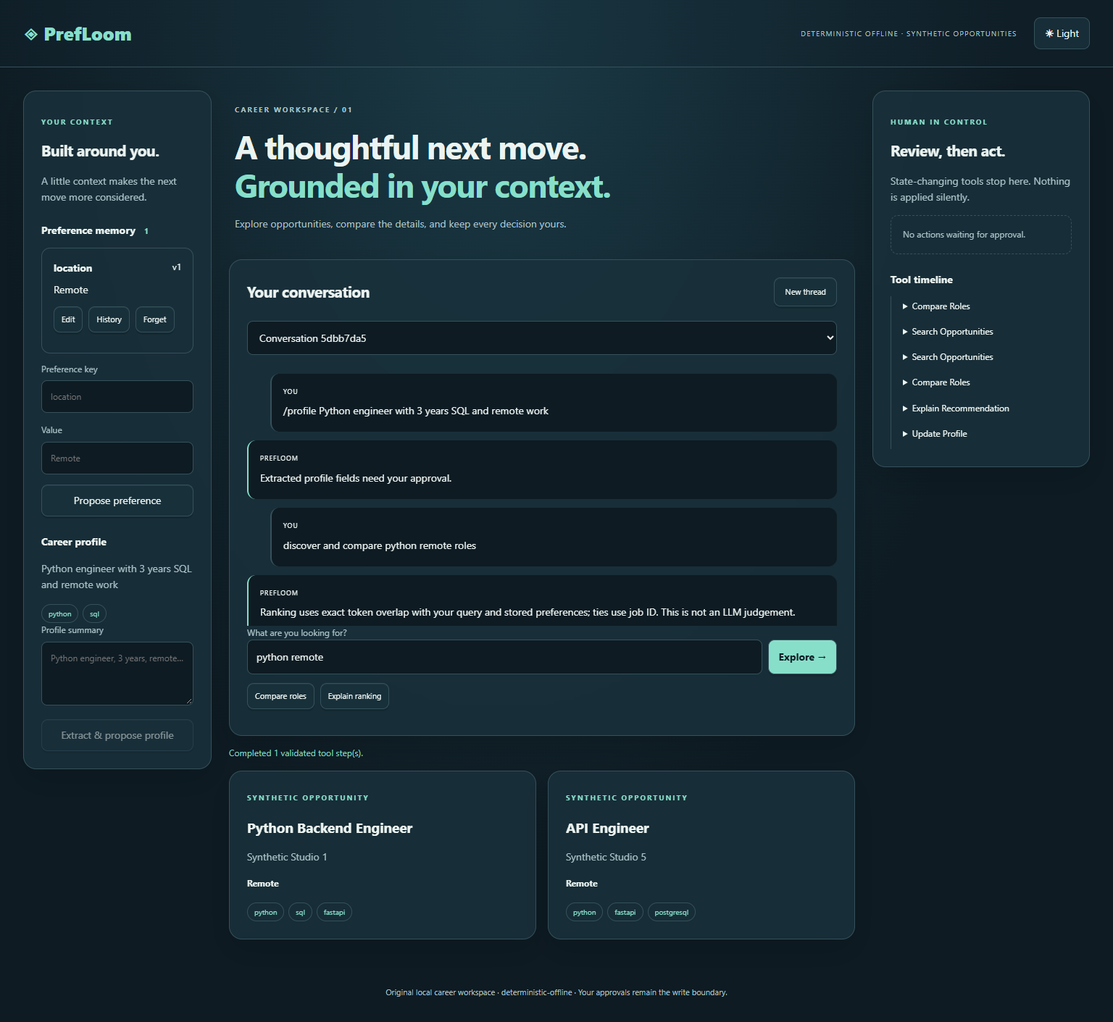
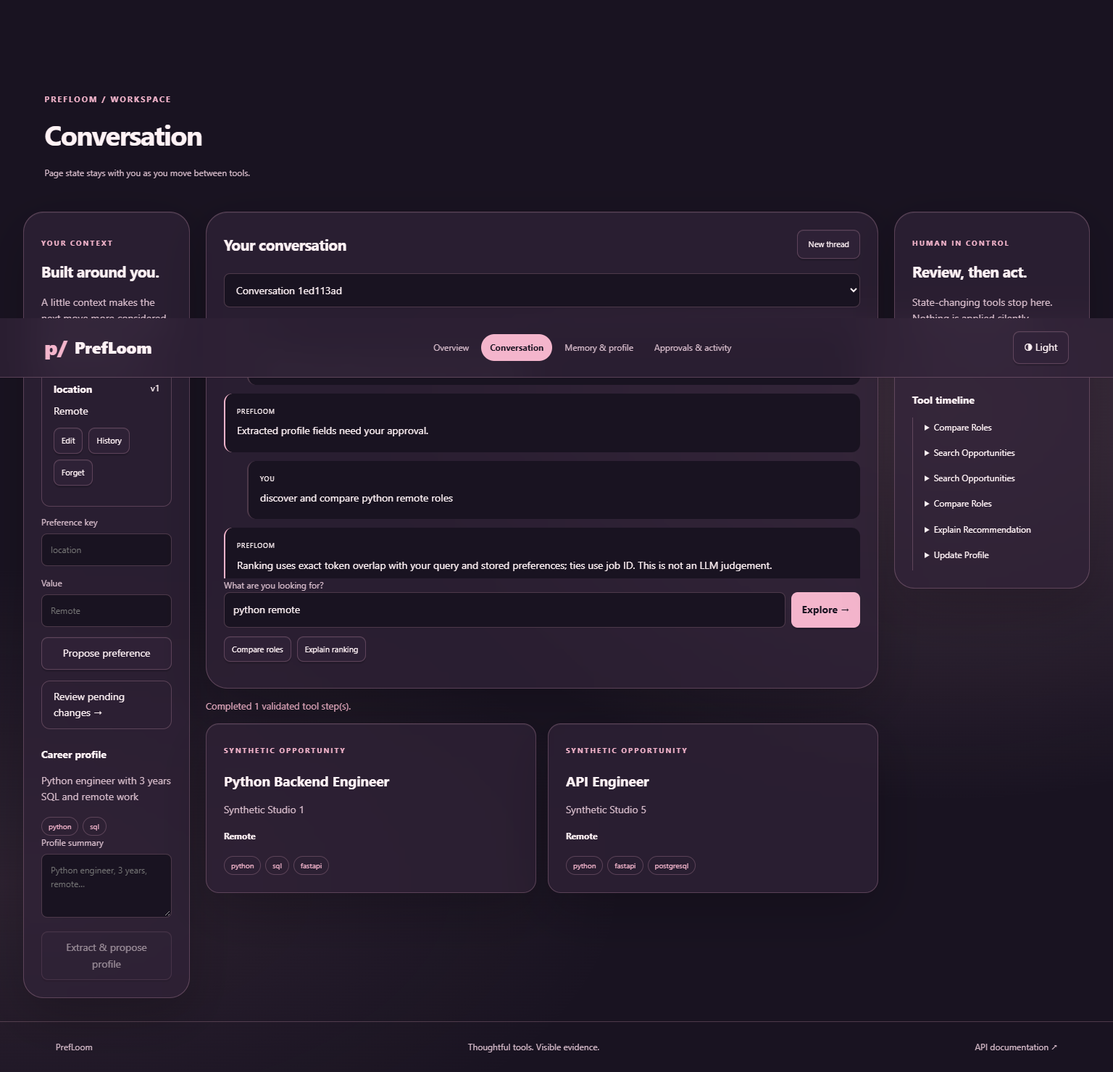
Phase 1: give PrefLoom a rose glass landing and dedicated career pages

diff --git a/frontend/src/App.tsx b/frontend/src/App.tsx
@@ -1,39 +1,20 @@
-import {useEffect,useRef,useState} from 'react';
-import {base,parseFrame,request,validPreference} from './api';
-type Fact={id:string;key:string;value:string;version:number};
-type Approval={id:string;action:string;payload:Record<string,unknown>};
-type Job={id:string;title:string;company:string;location:string;skills:string[]};
-type Chat={role:string;text:string};
-type Trace={id:string;tool:string;arguments:Record<string,unknown>;output:{trace:string[]};created_at:string};
-type Result={thread_id:string;message:string;jobs:Job[];mode:string;steps?:{call:{name:string};output:{message:string}}[]};
-type Profile={summary?:string;skills?:string[];experience_years?:number};
+import {useEffect,useState} from 'react';
+import Workspace from './Workspace';
+
+const routes = [['workspace','Conversation'],['memory','Memory & profile'],['activity','Approvals & activity']] as const;
+function route(){return window.location.hash.replace('#/','') || 'home'}
 export default function App(){
- const [token,setToken]=useState(localStorage.getItem('prefloom-token')??'');const auth=useRef(token);
- const [thread,setThread]=useState(localStorage.getItem('prefloom-thread')??'');
- const [threads,setThreads]=useState<{id:string}[]>([]);const [facts,setFacts]=useState<Fact[]>([]);const [approvals,setApprovals]=useState<Approval[]>([]);const [traces,setTraces]=useState<Trace[]>([]);const [profile,setProfile]=useState<Profile>({});
- const [messages,setMessages]=useState<Chat[]>([]);const [jobs,setJobs]=useState<Job[]>([]);const [query,setQuery]=useState('');const [summary,setSummary]=useState('');const [key,setKey]=useState('');const [value,setValue]=useState('');
- const [busy,setBusy]=useState(false);const [error,setError]=useState('');const [status,setStatus]=useState('Connecting…');const [mode,setMode]=useState('deterministic-offline');const [light,setLight]=useState(localStorage.getItem('prefloom-theme')==='light');const [versions,setVersions]=useState<{version:number;value:string}[]>([]);
- const last=useRef<()=>Promise<void>>(async()=>{});const started=useRef(false);
- async function act(fn:()=>Promise<void>){last.current=fn;setBusy(true);setError('');try{await fn()}catch(e){setError(e instanceof Error?e.message:'Request failed')}finally{setBusy(false)}}
- async function refresh(){const t=auth.current;const [f,a,r,p,ts]=await Promise.all([request<Fact[]>('/memory',t),request<Approval[]>('/approvals',t),request<Trace[]>('/traces',t),request<Profile>('/profile',t),request<{id:string}[]>('/threads',t)]);setFacts(f);setApprovals(a);setTraces(r);setProfile(p);setThreads(ts)}
- async function initialize(){const health=await request<{mode:string}>('/health','');setMode(health.mode);if(!auth.current){const s=await request<{token:string}>('/sessions','',{});auth.current=s.token;setToken(s.token);localStorage.setItem('prefloom-token',s.token)}await refresh();if(thread)setMessages(await request<Chat[]>('/threads/'+thread+'/messages',auth.current));setStatus('Your workspace is ready.')}
- useEffect(()=>{if(!started.current){started.current=true;void act(initialize)}},[]);
- useEffect(()=>{document.documentElement.dataset.theme=light?'light':'dark';localStorage.setItem('prefloom-theme',light?'light':'dark')},[light]);
- async function send(text:string){setStatus('Planning your next step…');const response=await fetch(base+'/chat/stream',{method:'POST',headers:{'Content-Type':'application/json',Authorization:'Bearer '+auth.current},body:JSON.stringify({text,thread_id:thread||null})});if(!response.ok){const e=await response.json();throw Error(e.detail??'Chat failed')}
- const reader=response.body!.getReader(),decoder=new TextDecoder();let buffer='',result:Result|undefined;
- while(true){const part=await reader.read();if(part.done)break;buffer+=decoder.decode(part.value,{stream:true});let end;while((end=buffer.indexOf('\n\n'))>=0){const frame=parseFrame(buffer.slice(0,end));buffer=buffer.slice(end+2);if(frame?.event==='trace')setStatus((frame.data as {step:string}).step);if(frame?.event==='result')result=frame.data as Result}}
- if(!result)throw Error('Stream ended before the result. Please retry.');setThread(result.thread_id);localStorage.setItem('prefloom-thread',result.thread_id);setMessages(old=>[...old,{role:'user',text},{role:'assistant',text:result.message}]);setJobs(result.jobs);setMode(result.mode);setStatus('Completed '+(result.steps?.length??1)+' validated tool step(s).');await refresh();}
- async function decide(id:string,approved:boolean){await request('/approvals/'+id,auth.current,{approved});await refresh();setStatus(approved?'Approved change saved.':'Proposal rejected.')}
- return <div className="app"><header className="topbar"><a className="brand" href="/">◈ <span>PrefLoom</span></a><span className="mode">{mode==='provider-backed'?'PROVIDER PLANNING':'DETERMINISTIC OFFLINE'} · SYNTHETIC OPPORTUNITIES</span><button className="quiet" onClick={()=>setLight(!light)} aria-label="Change theme">{light?'☾ Dark':'☀ Light'}</button></header>
- <div className="workspace"><aside className="panel context"><p className="eyebrow">YOUR CONTEXT</p><h2>Built around you.</h2><p className="muted">A little context makes the next move more considered.</p><h3>Preference memory <span className="count">{facts.length}</span></h3><div id="memory">{!facts.length&&<p className="empty">No saved preferences yet. Add one below; it stays a proposal until you approve.</p>}{facts.map(f=><article className="memory" key={f.id}><div><strong>{f.key}</strong><small>v{f.version}</small></div><p>{f.value}</p><div className="actions"><button onClick={()=>{setKey(f.key);setValue(f.value)}}>Edit</button><button onClick={()=>void act(async()=>setVersions(await request('/memory/'+f.id+'/versions',auth.current)))}>History</button><button disabled={busy} onClick={()=>void act(async()=>{await request('/memory/'+f.id,auth.current,undefined,'DELETE');await refresh()})}>Forget</button></div></article>)}</div>
- <form onSubmit={e=>{e.preventDefault();void act(async()=>{if(!validPreference(key,value))throw Error('Use a simple preference name and a nonempty value.');await request('/memory',auth.current,{key,value});await refresh();setStatus('Preference proposal is ready for your review.');setKey('');setValue('')})}}><label>Preference key<input name="key" value={key} onChange={e=>setKey(e.target.value)} required maxLength={64} placeholder="location"/></label><label>Value<input name="value" value={value} onChange={e=>setValue(e.target.value)} required maxLength={500} placeholder="Remote"/></label><button className="wide" disabled={busy}>Propose preference</button></form>
- <h3>Career profile</h3><p className="muted">{profile.summary??'Your profile is empty.'}</p>{profile.skills&&<div className="chips">{profile.skills.map(s=><span key={s}>{s}</span>)}</div>}<label>Profile summary<textarea value={summary} onChange={e=>setSummary(e.target.value)} maxLength={500} placeholder="Python engineer, 3 years, remote…"/></label><button className="wide" disabled={busy||!summary.trim()} onClick={()=>void act(()=>send('/profile '+summary))}>Extract & propose profile</button>
- </aside><main><div className="hero"><p className="eyebrow">CAREER WORKSPACE / 01</p><h1>A thoughtful next move.<br/><em>Grounded in your context.</em></h1><p>Explore opportunities, compare the details, and keep every decision yours.</p></div><section className="panel chat"><div className="section-head"><h2>Your conversation</h2><button onClick={()=>{setThread('');localStorage.removeItem('prefloom-thread');setMessages([]);setJobs([])}} disabled={busy}>New thread</button></div><label className="sr-only" htmlFor="thread">Conversation history</label><select id="thread" value={thread} onChange={e=>void act(async()=>{const id=e.target.value;setThread(id);localStorage.setItem('prefloom-thread',id);setMessages(id?await request('/threads/'+id+'/messages',auth.current):[])})}><option value="">New conversation</option>{threads.map(t=><option key={t.id} value={t.id}>Conversation {t.id.slice(0,8)}</option>)}</select>
- <div className="conversation" aria-live="polite">{!messages.length&&<div className="empty welcome"><span>✦</span><h3>What would a better fit look like?</h3><p>Try “discover and compare remote Python roles” for a multi-step tool plan.</p></div>}{messages.map((m,i)=><article key={i} className={'bubble '+m.role}><small>{m.role==='user'?'YOU':'PREFLOOM'}</small><p>{m.text}</p></article>)}</div>
- <form onSubmit={e=>{e.preventDefault();void act(()=>send(query))}}><label htmlFor="message">What are you looking for?</label><div className="composer"><input id="message" value={query} onChange={e=>setQuery(e.target.value)} required maxLength={2000} placeholder="Discover and compare remote Python roles"/><button className="primary" disabled={busy||!query.trim()}>Explore →</button></div></form><div className="actions"><button disabled={busy} onClick={()=>void act(()=>send('/compare '+query))}>Compare roles</button><button disabled={busy} onClick={()=>void act(()=>send('/explain '+query))}>Explain ranking</button></div></section>
- <div id="status" className="status" role="status">{busy&&<span className="spinner"/>}{status}</div>{error&&<div role="alert" className="error"><strong>We couldn’t finish that request.</strong><p>{error}</p><button onClick={()=>void act(last.current)}>Retry</button>{!token&&<button onClick={()=>void act(initialize)}>Create session</button>}</div>}
- <section id="jobs" className="job-grid">{jobs.map(j=><article className="panel job" key={j.id}><span className="eyebrow">SYNTHETIC OPPORTUNITY</span><h3>{j.title}</h3><p>{j.company}</p><strong>{j.location}</strong><div className="chips">{j.skills.map(s=><span key={s}>{s}</span>)}</div></article>)}</section></main>
- <aside className="panel review"><p className="eyebrow">HUMAN IN CONTROL</p><h2>Review, then act.</h2><p className="muted">State-changing tools stop here. Nothing is applied silently.</p><div id="approvals">{!approvals.length&&<p className="empty">No actions waiting for approval.</p>}{approvals.map(a=><article className="proposal" key={a.id}><span className="pill">PENDING APPROVAL</span><h3>{a.action.replaceAll('_',' ')}</h3><dl>{Object.entries(a.payload).map(([k,v])=><div key={k}><dt>{k}</dt><dd>{typeof v==='string'?v:JSON.stringify(v)}</dd></div>)}</dl><div className="actions"><button className="primary" disabled={busy} onClick={()=>void act(()=>decide(a.id,true))}>Approve</button><button disabled={busy} onClick={()=>void act(()=>decide(a.id,false))}>Reject</button></div></article>)}</div><h3>Tool timeline</h3><div id="traces" className="timeline">{!traces.length&&<p className="empty">Tool evidence appears after your first request.</p>}{traces.slice(0,12).map(t=><details key={t.id}><summary>{t.tool.replaceAll('_',' ')}</summary><time>{new Date(t.created_at).toLocaleTimeString()}</time><ol>{t.output.trace.map((step,i)=><li key={i}>{step}</li>)}</ol><pre>{JSON.stringify(t.arguments,null,2)}</pre></details>)}</div></aside></div>
- {versions.length>0&&<div className="overlay" role="dialog" aria-modal="true" aria-label="Memory history"><section className="panel"><h2>Memory versions</h2>{versions.map(v=><p key={v.version}><strong>Version {v.version}</strong> · {v.value}</p>)}<button autoFocus onClick={()=>setVersions([])}>Close history</button></section></div>}
- <footer>Original local career workspace · {mode} · Your approvals remain the write boundary.</footer></div>
+ const [page,setPage]=useState(route);const [opened,setOpened]=useState(page!=='home');
+ const [light,setLight]=useState(localStorage.getItem('PrefLoom-theme')==='light');
+ useEffect(()=>{const change=()=>{const next=route();setPage(next);if(next!=='home')setOpened(true);window.scrollTo(0,0)};window.addEventListener('hashchange',change);return()=>window.removeEventListener('hashchange',change)},[]);
+ useEffect(()=>{document.documentElement.dataset.theme=light?'light':'dark';localStorage.setItem('PrefLoom-theme',light?'light':'dark')},[light,page,opened]);
+ const valid=page==='home'||routes.some(([id])=>id===page);
+ return <div className="experience" data-page={page}>
+ <a className="skip-link" href="#page-content" onClick={e=>{e.preventDefault();document.getElementById("page-content")?.focus()}}>Skip to content</a>
+ <header className="site-nav"><a className="site-brand" href="#/home"><span>p/</span>PrefLoom</a><nav aria-label="Primary navigation"><a href="#/home" aria-current={page==='home'?'page':undefined}>Overview</a>{routes.map(([id,label])=><a key={id} href={'#/'+id} aria-current={page===id?'page':undefined}>{label}</a>)}</nav><button className="theme-switch" aria-label="Change theme" onClick={()=>setLight(!light)}>{light?'◐ Dark':'◑ Light'}</button></header>
+ <div id="page-content" tabIndex={-1}>
+ {page==='home'&&<main className="landing"><section className="landing-hero"><div className="hero-copy"><p className="landing-kicker">A little more you.</p><h1>Make room for<br/>your next chapter.</h1><p className="landing-description">A career companion that remembers what matters. Explore possibilities, shape your profile, and keep every decision in your hands.</p><div className="landing-actions"><a className="launch-button" href="#/workspace">Enter your workspace <span>↗</span></a><a className="text-link" href="#how-it-works" onClick={e=>{e.preventDefault();document.getElementById('how-it-works')?.scrollIntoView({behavior:'smooth'})}}>How it works ↓</a></div></div><div className="loom-art" aria-label="Illustration of a personal career journey"><div className="orbit one"/><div className="orbit two"/><div className="orbit three"/><div className="art-core">You<span>at the center</span></div><span className="floating-note note-a">Your ambitions</span><span className="floating-note note-b">Your preferences</span><span className="floating-note note-c">Your decision</span></div></section><section className="landing-path" id="how-it-works"><div className="section-intro"><p className="landing-kicker">DESIGNED AROUND YOUR WORKFLOW</p><h2>One place to start.<br/>A path you can follow.</h2></div><div className="journey-grid"><a className="journey-card" href="#/workspace"><span>01</span><h3>Find your direction</h3><p>Turn a question into a guided conversation.</p><b aria-hidden="true">↗</b></a><a className="journey-card" href="#/memory"><span>02</span><h3>Make it personal</h3><p>Build a profile you can inspect and edit.</p><b aria-hidden="true">↗</b></a><a className="journey-card" href="#/activity"><span>03</span><h3>Stay in control</h3><p>Review every proposed change before it is saved.</p><b aria-hidden="true">↗</b></a></div></section><section className="honest-note"><span>Built on evidence</span><p>Explore working tools, inspect the results, and keep the limits visible. Demo data is labeled. No invented activity or production scores.</p><a href="/docs">Explore the API ↗</a></section></main>}
+ {!valid&&<section className="landing"><h1>Page not found</h1><a href="#/home">Return to overview</a></section>}
+ {opened&&<div className="product-surface" hidden={page==='home'||!valid}><div className="page-heading"><p className="landing-kicker">PrefLoom / WORKSPACE</p><h1>{routes.find(([id])=>id===page)?.[1]}</h1><p>Page state stays with you as you move between tools.</p></div><Workspace/></div>}
+ </div><footer className="site-footer"><a href="#/home">PrefLoom</a><span>Thoughtful tools. Visible evidence.</span><a href="/docs">API documentation ↗</a></footer></div>
 }

diff --git a/frontend/src/Workspace.tsx b/frontend/src/Workspace.tsx
@@ -1,0 +1,39 @@
+import {useEffect,useRef,useState} from 'react';
+import {base,parseFrame,request,validPreference} from './api';
+type Fact={id:string;key:string;value:string;version:number};
+type Approval={id:string;action:string;payload:Record<string,unknown>};
+type Job={id:string;title:string;company:string;location:string;skills:string[]};
+type Chat={role:string;text:string};
+type Trace={id:string;tool:string;arguments:Record<string,unknown>;output:{trace:string[]};created_at:string};
+type Result={thread_id:string;message:string;jobs:Job[];mode:string;steps?:{call:{name:string};output:{message:string}}[]};
+type Profile={summary?:string;skills?:string[];experience_years?:number};
+export default function Workspace(){
+ const [token,setToken]=useState(localStorage.getItem('prefloom-token')??'');const auth=useRef(token);
+ const [thread,setThread]=useState(localStorage.getItem('prefloom-thread')??'');
+ const [threads,setThreads]=useState<{id:string}[]>([]);const [facts,setFacts]=useState<Fact[]>([]);const [approvals,setApprovals]=useState<Approval[]>([]);const [traces,setTraces]=useState<Trace[]>([]);const [profile,setProfile]=useState<Profile>({});
+ const [messages,setMessages]=useState<Chat[]>([]);const [jobs,setJobs]=useState<Job[]>([]);const [query,setQuery]=useState('');const [summary,setSummary]=useState('');const [key,setKey]=useState('');const [value,setValue]=useState('');
+ const [busy,setBusy]=useState(false);const [error,setError]=useState('');const [status,setStatus]=useState('Connecting…');const [mode,setMode]=useState('deterministic-offline');const [light,setLight]=useState(localStorage.getItem('prefloom-theme')==='light');const [versions,setVersions]=useState<{version:number;value:string}[]>([]);
+ const last=useRef<()=>Promise<void>>(async()=>{});const started=useRef(false);
+ async function act(fn:()=>Promise<void>){last.current=fn;setBusy(true);setError('');try{await fn()}catch(e){setError(e instanceof Error?e.message:'Request failed')}finally{setBusy(false)}}
+ async function refresh(){const t=auth.current;const [f,a,r,p,ts]=await Promise.all([request<Fact[]>('/memory',t),request<Approval[]>('/approvals',t),request<Trace[]>('/traces',t),request<Profile>('/profile',t),request<{id:string}[]>('/threads',t)]);setFacts(f);setApprovals(a);setTraces(r);setProfile(p);setThreads(ts)}
+ async function initialize(){const health=await request<{mode:string}>('/health','');setMode(health.mode);if(!auth.current){const s=await request<{token:string}>('/sessions','',{});auth.current=s.token;setToken(s.token);localStorage.setItem('prefloom-token',s.token)}await refresh();if(thread)setMessages(await request<Chat[]>('/threads/'+thread+'/messages',auth.current));setStatus('Your workspace is ready.')}
+ useEffect(()=>{if(!started.current){started.current=true;void act(initialize)}},[]);
+ useEffect(()=>{document.documentElement.dataset.theme=light?'light':'dark';localStorage.setItem('prefloom-theme',light?'light':'dark')},[light]);
+ async function send(text:string){setStatus('Planning your next step…');const response=await fetch(base+'/chat/stream',{method:'POST',headers:{'Content-Type':'application/json',Authorization:'Bearer '+auth.current},body:JSON.stringify({text,thread_id:thread||null})});if(!response.ok){const e=await response.json();throw Error(e.detail??'Chat failed')}
+ const reader=response.body!.getReader(),decoder=new TextDecoder();let buffer='',result:Result|undefined;
+ while(true){const part=await reader.read();if(part.done)break;buffer+=decoder.decode(part.value,{stream:true});let end;while((end=buffer.indexOf('\n\n'))>=0){const frame=parseFrame(buffer.slice(0,end));buffer=buffer.slice(end+2);if(frame?.event==='trace')setStatus((frame.data as {step:string}).step);if(frame?.event==='result')result=frame.data as Result}}
+ if(!result)throw Error('Stream ended before the result. Please retry.');setThread(result.thread_id);localStorage.setItem('prefloom-thread',result.thread_id);setMessages(old=>[...old,{role:'user',text},{role:'assistant',text:result.message}]);setJobs(result.jobs);setMode(result.mode);setStatus('Completed '+(result.steps?.length??1)+' validated tool step(s).');await refresh();}
+ async function decide(id:string,approved:boolean){await request('/approvals/'+id,auth.current,{approved});await refresh();setStatus(approved?'Approved change saved.':'Proposal rejected.')}
+ return <div className="app"><header className="topbar"><a className="brand" href="/">◈ <span>PrefLoom</span></a><span className="mode">{mode==='provider-backed'?'PROVIDER PLANNING':'DETERMINISTIC OFFLINE'} · SYNTHETIC OPPORTUNITIES</span><button className="quiet" onClick={()=>setLight(!light)} aria-label="Change theme">{light?'☾ Dark':'☀ Light'}</button></header>
+ <div className="workspace"><aside className="panel context"><p className="eyebrow">YOUR CONTEXT</p><h2>Built around you.</h2><p className="muted">A little context makes the next move more considered.</p><h3>Preference memory <span className="count">{facts.length}</span></h3><div id="memory">{!facts.length&&<p className="empty">No saved preferences yet. Add one below; it stays a proposal until you approve.</p>}{facts.map(f=><article className="memory" key={f.id}><div><strong>{f.key}</strong><small>v{f.version}</small></div><p>{f.value}</p><div className="actions"><button onClick={()=>{setKey(f.key);setValue(f.value)}}>Edit</button><button onClick={()=>void act(async()=>setVersions(await request('/memory/'+f.id+'/versions',auth.current)))}>History</button><button disabled={busy} onClick={()=>void act(async()=>{await request('/memory/'+f.id,auth.current,undefined,'DELETE');await refresh()})}>Forget</button></div></article>)}</div>
+ <form onSubmit={e=>{e.preventDefault();void act(async()=>{if(!validPreference(key,value))throw Error('Use a simple preference name and a nonempty value.');await request('/memory',auth.current,{key,value});await refresh();setStatus('Preference proposal is ready for your review.');setKey('');setValue('')})}}><label>Preference key<input name="key" value={key} onChange={e=>setKey(e.target.value)} required maxLength={64} placeholder="location"/></label><label>Value<input name="value" value={value} onChange={e=>setValue(e.target.value)} required maxLength={500} placeholder="Remote"/></label><button className="wide" disabled={busy}>Propose preference</button></form>
+ <div className="page-tools"><a href="#/activity">Review pending changes →</a></div><h3>Career profile</h3><p className="muted">{profile.summary??'Your profile is empty.'}</p>{profile.skills&&<div className="chips">{profile.skills.map(s=><span key={s}>{s}</span>)}</div>}<label>Profile summary<textarea value={summary} onChange={e=>setSummary(e.target.value)} maxLength={500} placeholder="Python engineer, 3 years, remote…"/></label><button className="wide" disabled={busy||!summary.trim()} onClick={()=>void act(()=>send('/profile '+summary))}>Extract & propose profile</button>
+ </aside><main><div className="hero"><p className="eyebrow">CAREER WORKSPACE / 01</p><h1>A thoughtful next move.<br/><em>Grounded in your context.</em></h1><p>Explore opportunities, compare the details, and keep every decision yours.</p></div><section className="panel chat"><div className="section-head"><h2>Your conversation</h2><button onClick={()=>{setThread('');localStorage.removeItem('prefloom-thread');setMessages([]);setJobs([])}} disabled={busy}>New thread</button></div><label className="sr-only" htmlFor="thread">Conversation history</label><select id="thread" value={thread} onChange={e=>void act(async()=>{const id=e.target.value;setThread(id);localStorage.setItem('prefloom-thread',id);setMessages(id?await request('/threads/'+id+'/messages',auth.current):[])})}><option value="">New conversation</option>{threads.map(t=><option key={t.id} value={t.id}>Conversation {t.id.slice(0,8)}</option>)}</select>
+ <div className="conversation" aria-live="polite">{!messages.length&&<div className="empty welcome"><span>✦</span><h3>What would a better fit look like?</h3><p>Try “discover and compare remote Python roles” for a multi-step tool plan.</p></div>}{messages.map((m,i)=><article key={i} className={'bubble '+m.role}><small>{m.role==='user'?'YOU':'PREFLOOM'}</small><p>{m.text}</p></article>)}</div>
+ <form onSubmit={e=>{e.preventDefault();void act(()=>send(query))}}><label htmlFor="message">What are you looking for?</label><div className="composer"><input id="message" value={query} onChange={e=>setQuery(e.target.value)} required maxLength={2000} placeholder="Discover and compare remote Python roles"/><button className="primary" disabled={busy||!query.trim()}>Explore →</button></div></form><div className="actions"><button disabled={busy} onClick={()=>void act(()=>send('/compare '+query))}>Compare roles</button><button disabled={busy} onClick={()=>void act(()=>send('/explain '+query))}>Explain ranking</button></div></section>
+ <div id="status" className="status" role="status">{busy&&<span className="spinner"/>}{status}</div>{error&&<div role="alert" className="error"><strong>We couldn’t finish that request.</strong><p>{error}</p><button onClick={()=>void act(last.current)}>Retry</button>{!token&&<button onClick={()=>void act(initialize)}>Create session</button>}</div>}
+ <section id="jobs" className="job-grid">{jobs.map(j=><article className="panel job" key={j.id}><span className="eyebrow">SYNTHETIC OPPORTUNITY</span><h3>{j.title}</h3><p>{j.company}</p><strong>{j.location}</strong><div className="chips">{j.skills.map(s=><span key={s}>{s}</span>)}</div></article>)}</section></main>
+ <aside className="panel review"><p className="eyebrow">HUMAN IN CONTROL</p><h2>Review, then act.</h2><p className="muted">State-changing tools stop here. Nothing is applied silently.</p><div id="approvals">{!approvals.length&&<p className="empty">No actions waiting for approval.</p>}{approvals.map(a=><article className="proposal" key={a.id}><span className="pill">PENDING APPROVAL</span><h3>{a.action.replaceAll('_',' ')}</h3><dl>{Object.entries(a.payload).map(([k,v])=><div key={k}><dt>{k}</dt><dd>{typeof v==='string'?v:JSON.stringify(v)}</dd></div>)}</dl><div className="actions"><button className="primary" disabled={busy} onClick={()=>void act(()=>decide(a.id,true))}>Approve</button><button disabled={busy} onClick={()=>void act(()=>decide(a.id,false))}>Reject</button></div></article>)}</div><h3>Tool timeline</h3><div id="traces" className="timeline">{!traces.length&&<p className="empty">Tool evidence appears after your first request.</p>}{traces.slice(0,12).map(t=><details key={t.id}><summary>{t.tool.replaceAll('_',' ')}</summary><time>{new Date(t.created_at).toLocaleTimeString()}</time><ol>{t.output.trace.map((step,i)=><li key={i}>{step}</li>)}</ol><pre>{JSON.stringify(t.arguments,null,2)}</pre></details>)}</div></aside></div>
+ {versions.length>0&&<div className="overlay" role="dialog" aria-modal="true" aria-label="Memory history"><section className="panel"><h2>Memory versions</h2>{versions.map(v=><p key={v.version}><strong>Version {v.version}</strong> · {v.value}</p>)}<button autoFocus onClick={()=>setVersions([])}>Close history</button></section></div>}
+ <footer>Original local career workspace · {mode} · Your approvals remain the write boundary.</footer></div>
+}

diff --git a/frontend/src/experience.css b/frontend/src/experience.css
@@ -1,0 +1,13 @@
+/* Original multi-page visual direction; production workflows remain in Workspace. */
+:root{--bg:#191321;--panel:#302237b3;--ink:#fff2f5;--muted:#d7bccb;--accent:#f4b5cc;--line:rgba(244,181,204,.24);--shadow:0 24px 70px #0003;color-scheme:dark}
+html[data-theme=light]{--bg:#fff5f7;--panel:#ffffffb8;--ink:#48243b;--muted:#48243b;--accent:#9b2859;--line:#8c96aa66;color-scheme:light}
+body,html[data-theme=light] body{background:var(--bg);color:var(--ink)}body:before{content:'';position:fixed;inset:0;z-index:-1;pointer-events:none;background:radial-gradient(ellipse at 85% 12%,rgba(244,181,204,.18),transparent 42%),radial-gradient(ellipse at 0 75%,rgba(244,181,204,.09),transparent 40%)}
+.site-nav{position:sticky;top:0;z-index:5;display:flex;align-items:center;gap:28px;padding:18px 4vw;background:var(--panel);backdrop-filter:blur(24px);border-bottom:1px solid var(--line)}.site-brand{display:flex;align-items:center;gap:10px;text-decoration:none;font-weight:800;font-size:22px;white-space:nowrap}.site-brand>span{color:var(--accent);font-size:28px}.site-nav nav{display:flex;gap:5px;flex:1;justify-content:center;flex-wrap:wrap}.site-nav nav a{font-size:12px;text-decoration:none;padding:9px 12px;border-radius:30px;color:var(--muted)}.site-nav nav a[aria-current=page]{background:var(--accent);color:var(--bg);font-weight:700}.theme-switch{white-space:nowrap}.skip-link{position:absolute;left:10px;top:-100px;z-index:20;background:var(--bg);padding:14px}.skip-link:focus{top:10px}
+.landing{max-width:1440px;margin:auto;padding:0 5vw}.landing-hero{min-height:650px;display:grid;grid-template-columns:1.15fr 1fr;align-items:center;gap:5vw;padding:65px 0 85px}.landing-kicker{font-size:11px;letter-spacing:2px;text-transform:uppercase;color:var(--accent);font-weight:700}.landing h1{font-size:clamp(42px,5.7vw,83px);letter-spacing:-3px;line-height:1.04;margin:25px 0}.landing-description{max-width:510px;font-size:18px;color:var(--muted);line-height:1.8}.landing-actions{display:flex;gap:25px;align-items:center;flex-wrap:wrap;margin-top:35px}.launch-button{padding:17px 24px;border-radius:40px;background:var(--accent);color:var(--bg);font-weight:750;text-decoration:none;box-shadow:inset 0 2px #fff5,0 12px 30px #0002;display:flex;gap:24px;align-items:center}.text-link{font-size:13px;text-underline-offset:6px}.landing-path{padding:65px 0;border-top:1px solid var(--line);scroll-margin-top:100px}.section-intro h2{font-size:36px;line-height:1.2;letter-spacing:-1px}.journey-grid{display:grid;grid-template-columns:repeat(3,1fr);gap:20px;margin:35px 0}.journey-card{position:relative;display:block;text-decoration:none;padding:30px;border:1px solid var(--line);background:var(--panel);backdrop-filter:blur(22px);border-radius:25px;box-shadow:var(--shadow),inset 0 1px #fff2;transition:transform .2s}.journey-card:hover{transform:translateY(-5px)}.journey-card>span{font:12px ui-monospace,monospace;color:var(--accent)}.journey-card h3{font-size:22px;margin:30px 0 12px}.journey-card p{color:var(--muted);max-width:260px}.journey-card b{position:absolute;right:25px;top:25px;font-size:23px}.honest-note{display:flex;align-items:center;gap:40px;border-top:1px solid var(--line);padding:40px 0 65px}.honest-note>span{font-size:12px;color:var(--accent);white-space:nowrap}.honest-note p{color:var(--muted);max-width:650px}.honest-note a{white-space:nowrap;font-size:12px}.site-footer{display:flex;justify-content:space-between;gap:20px;border-top:1px solid var(--line);padding:25px 5vw;font-size:12px}.site-footer a{text-decoration:none}.page-heading{padding:35px 4vw 0}.page-heading h1{font-size:38px;letter-spacing:-1.5px;margin:10px 0}.page-heading>p:last-child{color:var(--muted);font-size:12px}.product-surface .topbar,.product-surface footer,.product-surface .hero{display:none}.product-surface .panel{background:var(--panel);backdrop-filter:blur(22px);border-color:var(--line);box-shadow:var(--shadow),inset 0 1px #fff1}.product-surface input,.product-surface textarea,.product-surface select{background:var(--bg)}.product-surface .primary{color:var(--bg)}.product-surface[hidden]{display:none}.product-surface .status{font-size:13px}.product-surface .overlay{z-index:10}.page-tools{display:flex;gap:12px;flex-wrap:wrap;margin:15px 0}.page-tools a{border:1px solid var(--line);border-radius:12px;padding:10px 16px;text-decoration:none}
+@media(max-width:900px){.site-nav{flex-wrap:wrap;gap:12px}.site-nav nav{order:3;flex-basis:100%;justify-content:flex-start}.theme-switch{margin-left:auto}.landing-hero{grid-template-columns:1fr;padding:45px 0;gap:35px}.landing h1{letter-spacing:-2px}.journey-grid{grid-template-columns:1fr}.honest-note{display:block}.site-footer{flex-wrap:wrap}.page-heading{padding:25px 20px 0}}
+@media(prefers-reduced-motion:reduce){*{scroll-behavior:auto!important;animation:none!important;transition:none!important}}
+
+.landing h1,.section-intro h2{font-family:Georgia,serif;font-weight:400}.loom-art{height:460px;position:relative;display:grid;place-items:center}.orbit{position:absolute;border:1px solid var(--line);border-radius:50%;width:85%;height:85%;transform:rotate(-30deg)}.orbit.two{width:55%;height:95%;transform:rotate(35deg)}.orbit.three{width:95%;height:55%;transform:rotate(30deg)}.art-core{width:180px;height:180px;display:flex;flex-direction:column;justify-content:center;align-items:center;border-radius:50%;background:radial-gradient(circle at 30% 20%,#f7c3d9,#8f527b);color:#29192d;font:54px Georgia,serif;box-shadow:0 0 100px #f4b5cc35,inset 0 3px 12px #fff8}.art-core span{font:12px system-ui;margin-top:12px}.floating-note{position:absolute;padding:16px 22px;border-radius:50px;background:var(--panel);border:1px solid var(--line);backdrop-filter:blur(18px);box-shadow:var(--shadow)}.note-a{top:40px;left:0}.note-b{right:0;top:180px}.note-c{bottom:20px;left:50px}.workspace{grid-template-columns:230px minmax(0,1fr) 270px;gap:22px;max-width:1600px}.chat{border-radius:30px!important}.context,.review{border-radius:28px!important}.experience[data-page=memory] .workspace{grid-template-columns:1.2fr 1fr;max-width:1100px}.experience[data-page=memory] .workspace>main{display:none}.experience[data-page=activity] .workspace{display:block;max-width:1000px}.experience[data-page=activity] .context,.experience[data-page=activity] .workspace>main{display:none}.experience[data-page=activity] .review{width:100%}
+@media(max-width:1100px){.workspace{grid-template-columns:1fr 1fr}.workspace>main{grid-column:1/-1;grid-row:1}.review{grid-column:auto}.review .timeline{display:block}}@media(max-width:720px){.workspace,.experience[data-page=memory] .workspace{display:flex;flex-direction:column}.loom-art{height:340px}.workspace>*{width:100%}}
+
+.experience[data-page=memory] .workspace>main,.experience[data-page=activity] .workspace>main{display:block;grid-column:1/-1}.experience[data-page=memory] .workspace>main>*:not(.status):not(.error),.experience[data-page=activity] .workspace>main>*:not(.status):not(.error){display:none}

diff --git a/frontend/src/main.tsx b/frontend/src/main.tsx
@@ -1,1 +1,1 @@
-import {createRoot} from 'react-dom/client';import App from './App';import './style.css';createRoot(document.getElementById('root')!).render(<App/>);
+import {createRoot} from 'react-dom/client';import App from './App';import './style.css';import './experience.css';createRoot(document.getElementById('root')!).render(<App/>);

diff --git a/tests/browser_journey.py b/tests/browser_journey.py
@@ -57,6 +57,15 @@ try:
             except Exception:
                 time.sleep(0.2)
         page.goto(f"http://127.0.0.1:{port}", wait_until="networkidle")
+        expect(page.get_by_role("heading", name="Make room for your next chapter.")).to_be_visible()
+        page.screenshot(path=str(root / "docs/assets/landing.png"), full_page=True)
+        page.get_by_role("link", name="Enter your workspace").click()
+        expect(page.locator(".page-heading h1")).to_have_text("Conversation")
+        page.get_by_role("link", name="Memory & profile", exact=True).click()
+        expect(page.locator(".page-heading h1")).to_have_text("Memory & profile")
+        page.get_by_role("link", name="Approvals & activity", exact=True).click()
+        expect(page.locator(".page-heading h1")).to_have_text("Approvals & activity")
+        page.get_by_role("link", name="Conversation", exact=True).click()
         expect(page.get_by_text("Your workspace is ready.")).to_be_visible()
         page.locator("input[name=key]").fill("location")
         page.locator("input[name=value]").fill("Remote")

diff --git a/README.md b/README.md
@@ -8,6 +8,12 @@
 
 PrefLoom combines multi-step agent planning, persistent conversation memory and human-approved actions. A React and TypeScript interface makes preferences, proposed changes and tool execution visible; FastAPI, LangGraph and PostgreSQL keep the workflow typed and auditable.
 
+## Interface redesign
+
+A rose-and-plum glass interface with a dedicated landing page and separate Conversation, Memory & profile, and Approvals & activity pages. Navigation preserves workspace state; the original approval and persistence workflows remain available.
+
+![New PrefLoom landing page](docs/assets/landing.png)
+
 ## Production preview
 
 ![PrefLoom running on Vercel](docs/assets/production-desktop.png)
